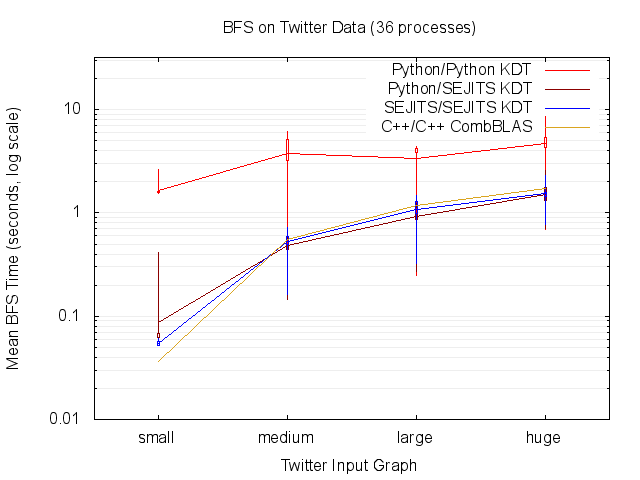
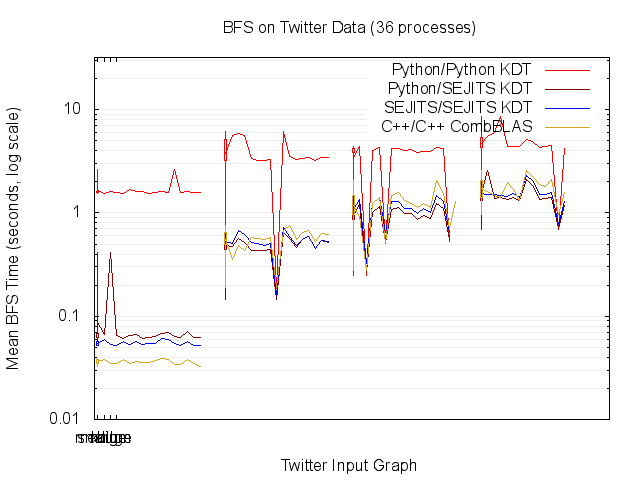
bfsreal plot update

diff --git a/sandbox/AnalyzeIPDPS.py b/sandbox/AnalyzeIPDPS.py
@@ -111,6 +111,7 @@ if runtype == "bfs":
 elif runtype == "bfsreal":
 	cores = {36: 1}
 	files = {"small": "result_ipdps_bfs_small_36.txt", "medium": "result_ipdps_bfs_medium_36.txt", "large": "result_ipdps_bfs_large_36.txt", "huge": "result_ipdps_bfs_huge_36.txt"}
+	raw_combblas_files = {"small": "ran_small_p36_notiming_august12.det", "medium": "ran_medium_p36_notiming_august12.det", "large": "ran_large_p36_notiming_august12.det", "huge": "ran_huge_p36_notiming_august12.det"}
 	combblas_file = "result_ipdps_bfs_real_combblas.txt"
 	# combblas file format: each line is a tab-delimited tuple:
 	# core count, [small|medium|large|huge], min time, max time, mean time
@@ -127,6 +128,8 @@ elif runtype == "bfsreal":
 	experiment_varieties = ["mean_IDtime", "min_IDtime", "max_IDtime", "firstquartile_IDtime", "thirdquartile_IDtime"]
 	
 	result_type = "BFS"
+	
+	real_graph_sizes = ["small", "medium", "large", "huge"]
 	
 	def parseCombBLAS(data):
 		if not os.path.isfile(combblas_file):
@@ -231,13 +234,27 @@ def getFunnyCore(core, iteration):
 	spread = core/2.0
 	return float(core) + iteration/16.0*spread
 
+def getFunnyGraphSize(graphsize, iteration):
+	if iteration == 0:
+		return graphsize
+	
+	return graphsize+str(iteration)
+
 if showIndividualIterations:
 	funnyCores = []
 	for core in cores.keys():
-		funnyCores.append(core - 0.1)
+		funnyCores.append(core - 0.1) # for a gap in the plot
 		funnyCores.append(core)
 		for i in range(1,17):
 			funnyCores.append(getFunnyCore(core, i))
+	
+	funnyGraphSizes = []
+	for g in real_graph_sizes:
+		funnyGraphSizes.append(g)
+		for i in range(1,20): # one extra to put a gap in the plot
+			funnyGraphSizes.append(getFunnyGraphSize(g, i))
+	real_graph_sizes = funnyGraphSizes
+	
 
 #######################
 ## data structure
@@ -249,25 +266,6 @@ data = []
 
 ######################
 ## parse
-
-# parse KDT
-
-if parseRealFiles:
-	core = cores.keys()[0]
-	for (graphsize, file) in files.items():
-		if not os.path.isfile(file):
-			print "file not found:",file
-			continue
-		
-		for line in open(file, 'r'):
-			for var in varieties:
-				if line.find(var) != -1:
-					feats = line.split("\t")
-					# var = feats[0]
-					# filter = int(float(feats[1]))
-					# : = feats[2]
-					time = float(feats[3])
-					data.append((core, var, graphsize, time))
 
 # parse CombBLAS
 def parseCombBLASIterations(file):
@@ -289,19 +287,39 @@ def parseCombBLASIterations(file):
 
 if raw_combblas_files is not None and algorithm != "mis":
 	exp = "CombBLAS_OTF"
-	for (core, file) in raw_combblas_files.items():
+
+	for (first, file) in raw_combblas_files.items():
 		if not os.path.isfile(file):
 			print "file not found:",file
 			continue
+
+		if parseProcFiles:
+			core = first
+		elif parseRealFiles:
+			core = cores.keys()[0]
+			graphsize = first
+
 		parsed = parseCombBLASIterations(file)
 		for run in parsed:
 			times = run[0]
-			filter = run[1]
+			if parseProcFiles:
+				filter = run[1]
+			else:
+				filter = graphsize
 			
 			if showIndividualIterations:
 				iteration = 1
 				for t in times:
-					data.append((getFunnyCore(core, iteration), showIndividualIterations_claim_to_be%(exp), filter, t))
+					if parseProcFiles:
+						filter_val = filter
+						core_val = getFunnyCore(core, iteration)
+					else:
+						filter_val = getFunnyGraphSize(graphsize, iteration)
+						core_val = core
+						print filter_val, "ccblas"
+					#data.append((d[0], showIndividualIterations_claim_to_be%(exp), filter_val, d[3]))
+
+					data.append((core_val, showIndividualIterations_claim_to_be%(exp), filter_val, t))
 					iteration += 1
 			
 			# summarize
@@ -315,74 +333,66 @@ if raw_combblas_files is not None and algorithm != "mis":
 else:
 	parseCombBLAS(data)
 
+#############
+# parse KDT data
 # get detailed data about each individual BFS iteration
 # parse individual BFS or MIS iterations then calculate stats
 if parseProcFiles:
-	for (core, file) in cores.items():
-		if not os.path.isfile(file):
-			print "file not found:",file
+	fileItems = cores.items()
+elif parseRealFiles:
+	fileItems = files.items()
+	
+for (first, file) in fileItems:
+	if not os.path.isfile(file):
+		print "file not found:",file
+		continue
+	
+	if parseProcFiles:
+		core = first
+	elif parseRealFiles:
+		core = cores.keys()[0]
+		graphsize = first
+
+	iterationData = []
+	iteration = 1
+	for line in open(file, 'r'):
+		if line.find("(result discarded)") != -1:
 			continue
-		iterationData = []
-		iteration = 1
-		for line in open(file, 'r'):
-			if line.find("(result discarded)") != -1:
-				continue
 
-			#############################################
-			if algorithm == "bfs":
-				if line.find("iteration") != -1:
-					feats = line.split("\t")
-					filter = int(float(feats[0]))
-					#iteration string = feats[1]
-					iteration = len(iterationData)+1 # easier than parsing out the string
-					time = float(feats[2])
-					
-					iterationData.append((getFunnyCore(core, iteration), "", filter, time))
-				elif line.find("BFS execution times") != -1:
-					# found out what the previous iterations were for
-					exp = line[(line.find("(")+1) : (line.find(")"))]
-					if isExperiment(exp):
-						# got all the data for an experiment, so summarize it
-						print "found variety:", var
-						times = []
-						for d in iterationData:
-							times.append(d[3])
-							filter = d[2]
-							if showIndividualIterations:
-								data.append((d[0], showIndividualIterations_claim_to_be%(exp), d[2], d[3]))
-
-						stats = compute_stats(times)
+		#############################################
+		if algorithm == "bfs":
+			if line.find("iteration") != -1:
+				feats = line.split("\t")
+				filter = int(float(feats[0]))
+				#iteration string = feats[1]
+				iteration = len(iterationData)+1 # easier than parsing out the string
+				time = float(feats[2])
 				
-						data.append((core, "mean_%stime"%exp, filter, stats["mean"]))
-						data.append((core, "min_%stime"%exp, filter, stats["min"]))
-						data.append((core, "max_%stime"%exp, filter, stats["max"]))
-						data.append((core, "firstquartile_%stime"%exp, filter, stats["q1"]))
-						data.append((core, "thirdquartile_%stime"%exp, filter, stats["q3"]))
-
-					iterationData = []
-				elif len(line) > 1:
-					iterationData = []
-			#############################################
-			elif algorithm == "mis": 
-				if line.find("procs time:") != -1:
-					feats = line.split("\t")
-					var = feats[0]
-					#core = feats[1]
-					time = float(feats[3])
-					iterationData.append((getFunnyCore(core, iteration), var, -1, time))
-					iteration += 1
-				if line.find("min_") != -1 and len(iterationData) > 0: # first line that has the filter amount
-					feats = line.split("\t")
-					filter = int(float(feats[1]))
+				if parseProcFiles:
+					iterationData.append((getFunnyCore(core, iteration), "", filter, time))
+				else:
+					iterationData.append((core, "", filter, time))
+			elif line.find("BFS execution times") != -1:
+				# found out what the previous iterations were for
+				exp = line[(line.find("(")+1) : (line.find(")"))]
+				if isExperiment(exp):
+					# got all the data for an experiment, so summarize it
+					print "found variety:", var
 					times = []
+					iteration = 1
 					for d in iterationData:
 						times.append(d[3])
-						exp = d[1]
+						filter = d[2]
+						if parseRealFiles:
+							filter = graphsize # small/medium/large/huge
 						if showIndividualIterations:
-							data.append((d[0], showIndividualIterations_claim_to_be%(d[1]), filter, d[3]))
-					iteration = 1
-					iterationData = []
-
+							if parseProcFiles:
+								filter_val = filter
+							else:
+								filter_val = getFunnyGraphSize(filter, iteration)
+							data.append((d[0], showIndividualIterations_claim_to_be%(exp), filter_val, d[3]))
+							iteration += 1
+							
 					stats = compute_stats(times)
 			
 					data.append((core, "mean_%stime"%exp, filter, stats["mean"]))
@@ -390,8 +400,40 @@ if parseProcFiles:
 					data.append((core, "max_%stime"%exp, filter, stats["max"]))
 					data.append((core, "firstquartile_%stime"%exp, filter, stats["q1"]))
 					data.append((core, "thirdquartile_%stime"%exp, filter, stats["q3"]))
-	#for d in data:
-	#	print d			
+
+				iterationData = []
+			elif len(line) > 1:
+				iterationData = []
+		#############################################
+		elif algorithm == "mis": 
+			if line.find("procs time:") != -1:
+				feats = line.split("\t")
+				var = feats[0]
+				#core = feats[1]
+				time = float(feats[3])
+				iterationData.append((getFunnyCore(core, iteration), var, -1, time))
+				iteration += 1
+			if line.find("min_") != -1 and len(iterationData) > 0: # first line that has the filter amount
+				feats = line.split("\t")
+				filter = int(float(feats[1]))
+				times = []
+				for d in iterationData:
+					times.append(d[3])
+					exp = d[1]
+					if showIndividualIterations:
+						data.append((d[0], showIndividualIterations_claim_to_be%(d[1]), filter, d[3]))
+				iteration = 1
+				iterationData = []
+
+				stats = compute_stats(times)
+		
+				data.append((core, "mean_%stime"%exp, filter, stats["mean"]))
+				data.append((core, "min_%stime"%exp, filter, stats["min"]))
+				data.append((core, "max_%stime"%exp, filter, stats["max"]))
+				data.append((core, "firstquartile_%stime"%exp, filter, stats["q1"]))
+				data.append((core, "thirdquartile_%stime"%exp, filter, stats["q3"]))
+#for d in data:
+#	print d			
 
 ######################
 ## function to determine if there's any data for a particular core count
@@ -526,7 +568,7 @@ if doPermeabilityPlot:
 	gnuplot += 'set title "Effects of Filter Permeability (%d processes)"\n'%(core_cnt)
 	gnuplot += 'set terminal %s\n'%(getTerminalString(graphformat))
 	gnuplot += 'set output "%s.%s"\n'%(filestem, graphformat)
-	gnuplot += ''
+	gnuplot += '\n'
 	gnuplot += 'set xrange [-5:105]\n'
 	gnuplot += 'set yrange [0.1:32]\n'
 	gnuplot += 'set logscale y\n'
@@ -578,7 +620,7 @@ if doRealScalabilityPlot:
 			continue
 
 		print "=== real data ==="
-		grid = format_table(data, 0, plot_core_cnt, varieties, ["small", "medium", "large", "huge"], 1, 2, 3, row_ids_are_strings=True)
+		grid = format_table(data, 0, plot_core_cnt, varieties, real_graph_sizes, 1, 2, 3, row_ids_are_strings=True)
 		print grid
 	
 		filestem = "gnuplot_real_%d_%s_%s"%(plot_core_cnt, machine, algorithm)
@@ -588,7 +630,13 @@ if doRealScalabilityPlot:
 		gnuplot += 'set terminal %s\n'%(getTerminalString(graphformat))
 		gnuplot += 'set output "%s.%s"\n'%(filestem, graphformat)
 		gnuplot += ''
-		gnuplot += 'set xrange [-0.5:3.5]\n'
+		if showIndividualIterations:
+			gnuplot += 'set xrange [-0.5:80]\n'
+		else:
+			gnuplot += 'set xrange [-0.5:3.5]\n'
+		gnuplot += '\n'
+		gnuplot += 'set datafile missing "-"\n'
+		gnuplot += '\n'
 		gnuplot += 'set yrange [0.01:32]\n'
 		gnuplot += 'set logscale y\n'
 		gnuplot += 'set grid ytics mytics lt 1 lc rgb "#EEEEEE"\n'
@@ -619,7 +667,7 @@ if doRealScalabilityPlot:
 				gnuplot += ' "%s.dat" every ::1 using 1:%d:%d:%d:%d title \'\' ps 0 lt 1 lc rgb \'%s\' with candlesticks,\\\n'%(filestem, exp_col_start+3,exp_col_start+1,exp_col_start+2, exp_col_start+4, experiments[i][2])
 			elif errorbars == "errorbars":
 				gnuplot += ' "%s.dat" every ::1 using 1:%d:%d:%d title \'\' ps 0 lt 1 lc rgb \'%s\' with errorbars,\\\n'%(filestem, exp_col_start,exp_col_start+1,exp_col_start+2, experiments[i][2])
-			gnuplot += ' "%s.dat" every ::1 using 1:%d title \'%s\' lc rgb \'%s\' with lines%s\n'%(filestem, exp_col_start, experiments[i][1], experiments[i][2], comma)
+			gnuplot += ' "%s.dat" every ::1 using 1:($%d) title \'%s\' lc rgb \'%s\' with lines%s\n'%(filestem, exp_col_start, experiments[i][1], experiments[i][2], comma)
 	
 		print ""
 		print gnuplot
